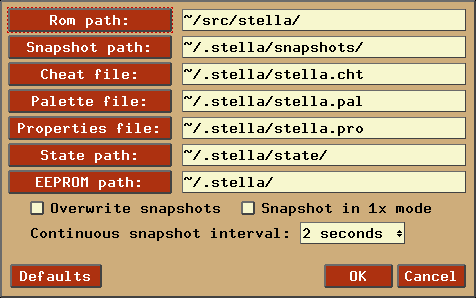
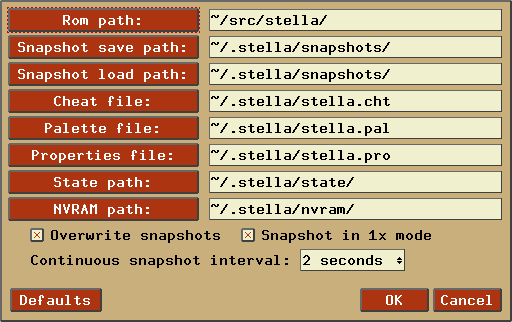
Updated webpage for 3.8 release.

diff --git a/docs/index.html b/docs/index.html
@@ -10,7 +10,7 @@
   <br><br>
   <center><h2><b>A multi-platform Atari 2600 VCS emulator</b></h2></center>
 
-  <center><h4><b>Release 3.7.5</b></h4></center>
+  <center><h4><b>Release 3.8</b></h4></center>
   <br><br>
 
   <center><h2><b>User's Guide</b></h2></center>
@@ -54,7 +54,7 @@
 
   <br><br><br>
 
-  <center><b>February 1999 - December 2012</b></center>
+  <center><b>February 1999 - February 2013</b></center>
     <center><b>The Stella Team</b></center>
   <center><b><a href="http://stella.sourceforge.net">Stella Homepage</a></b></center>
 
@@ -271,7 +271,8 @@
       <a href="http://www.richard.hutchinson.dsl.pipex.com/new_page_5.htm">
       AtariVox</a> device connected to your PC using a USB adaptor</li>
     <li>Supports EEPROM emulation for <a href="http://www.richard.hutchinson.dsl.pipex.com/new_page_5.htm">
-      AtariVox</a> and <a href="http://www.vectrex.biz/MemCard.htm">SaveKey</a> controllers</li>
+      AtariVox</a> and <a href="http://www.vectrex.biz/MemCard.htm">SaveKey</a> controllers,
+      as well as FLASH support in various cartridge schemes</li>
     <li>Supports all known bankswitching schemes (let us know if there's one we missed)</li>
     <li>Supports DPC+ bankswitching scheme from the <a href="http://harmony.atariage.com">Harmony Cart</a>,
       including <a href="http://thumbulator.blogspot.ca">partial emulation of the ARM processor</a></li>
@@ -1995,14 +1996,7 @@
 
     <tr>
       <td><pre>-freq &lt;number&gt;</pre></td>
-      <td>Set sound sample output frequency (0 - 48000).
-        Default is 31400.  Do not change unless you experience sound
-        issues.</td>
-    </tr>
-
-    <tr>
-      <td><pre>-tiafreq &lt;number&gt;</pre></td>
-      <td>Set sound sample generation frequency (0 - 48000).
+      <td>Set sound sample output frequency (11025,22050,31400,44100,48000)
         Default is 31400.  Do not change unless you experience sound
         issues.</td>
     </tr>
@@ -2108,8 +2102,13 @@
     </tr>
 
     <tr>
-      <td><pre>-snapdir &lt;path&gt;</pre></td>
+      <td><pre>-snapsavedir &lt;path&gt;</pre></td>
       <td>The directory to save snapshot files to.</td>
+    </tr>
+
+    <tr>
+      <td><pre>-snaploaddir &lt;path&gt;</pre></td>
+      <td>The directory to load snapshot files from.</td>
     </tr>
 
     <tr>
@@ -2215,8 +2214,8 @@
     </tr>
 
     <tr>
-      <td><pre>-eepromdir &lt;dir&gt;</pre></td>
-      <td>Set the directory in which to access EEPROM files.</td>
+      <td><pre>-nvramdir &lt;dir&gt;</pre></td>
+      <td>Set the directory in which to access non-volatile (flash/EEPROM) files.</td>
     </tr>
 
     <tr>
@@ -2494,9 +2493,7 @@
           <tr><th>Item</th><th>Brief description</th><th>For more information,<br>see <a href="#CommandLine">CommandLine</a></th></tr>
           <tr><td>Volume</td><td>self-explanatory</td><td>-volume</td></tr>
           <tr><td>Sample size (*)</td><td>set size of audio buffers</td><td>-fragsize</td></tr>
-          <tr><td>Output freq (*)</td><td>change sound output frequency (advanced)</td><td>-freq</td></tr>
-          <tr><td>TIA freq</td><td>change TIA output frequency (advanced)</td><td>-tiafreq</td></tr>
-          <tr><td>Clip volume</td><td>Eliminate popping in sound generation (advanced)</td><td>-clipvol</td></tr>
+          <tr><td>Frequency (*)</td><td>change sound output frequency</td><td>-freq</td></tr>
           <tr><td>Enable sound</td><td>self-explanatory</td><td>-sound</td></tr>
         </table>
       </td>
@@ -2561,12 +2558,13 @@
         <table border="1" cellpadding="4">
           <tr><th>Item</th><th>Brief description</th><th>For more information,<br>see <a href="#CommandLine">CommandLine</a></th></tr>
           <tr><td>Rom path</td><td>specifies location of ROM files</td><td>-romdir</td></tr>
-          <tr><td>Snapshot path</td><td>specifies where to load/save snapshots</td><td>-snapdir</td></tr>
+          <tr><td>Snapshot save path</td><td>specifies where to save snapshots</td><td>-snapsavedir</td></tr>
+          <tr><td>Snapshot load path</td><td>specifies where to load snapshots</td><td>-snaploaddir</td></tr>
           <tr><td>Cheat file</td><td>specifies location of cheatfile database</td><td>-cheatfile</td></tr>
           <tr><td>Palette file</td><td>specifies location of user palette</td><td>-palettefile</td></tr>
           <tr><td>Properties file </td><td>specifies location of external stella.pro database</td><td>-propsfile</td></tr>
           <tr><td>State path</td><td>specifies location of state files</td><td>-statedir</td></tr>
-          <tr><td>EEPROM path</td><td>specifies location of EEPROM files</td><td>-eepromdir</td></tr>
+          <tr><td>NVRAM path</td><td>specifies location of NVRAM (flash/EEPROM) files</td><td>-nvramdir</td></tr>
           <tr><td>Overwrite snapshots</td><td>whether to overwrite old snapshots</td><td>-sssingle</td></tr>
           <tr><td>Snapshot in 1x mode</td><td>save snapshot in 1x mode, without filtering</td><td>-ss1x</td></tr>
           <tr><td>Continuous snapshot interval</td><td>interval (in seconds) between snapshot</td><td>-ssinterval</td></tr>
@@ -2864,7 +2862,7 @@
   writing to a real EEPROM many times will eventually wear it out.</p>
 
   <p>The location of the EEPROM files are configurable through the
-  '<i>-eepromdir</i>' commandline argument and within the application itself
+  '<i>-nvramdir</i>' commandline argument and within the application itself
   (see <b>Advanced Configuration - <a href="#ConfigPaths">Config Paths</a></b>).
   If the path for these files hasn't been set, the default location will depend on the
   version of Stella, as follows:</p>
@@ -2872,21 +2870,21 @@
   <p><table cellpadding="5" border="1">
     <tr>
       <td><b>Linux/Unix</b></td>
-      <td><i>~/.stella/atarivox_eeprom.dat<br>
-        ~/.stella/savekey_eeprom.dat</i></td>
+      <td><i>~/.stella/nvram/atarivox_eeprom.dat<br>
+        ~/.stella/nvram/savekey_eeprom.dat</i></td>
     </tr>
     <tr>
       <td><b>Macintosh</b></td>
-      <td><i>~/Library/Application Support/Stella/atarivox_eeprom.dat<br>
-        ~/Library/Application Support/Stella/savekey_eeprom.dat</i></td>
+      <td><i>~/Library/Application Support/Stella/nvram/atarivox_eeprom.dat<br>
+        ~/Library/Application Support/Stella/nvram/savekey_eeprom.dat</i></td>
     </tr>
     <tr>
       <td><b>Windows</b></td>
-      <td><i>%APPDATA%\Stella\atarivox_eeprom.dat<br>
-        %APPDATA%\Stella\savekey_eeprom.dat</i>&nbsp;&nbsp;&nbsp;
+      <td><i>%APPDATA%\Stella\nvram\atarivox_eeprom.dat<br>
+        %APPDATA%\Stella\nvram\savekey_eeprom.dat</i>&nbsp;&nbsp;&nbsp;
         <b>OR</b><br>
-        <i>_BASEDIR_\atarivox_eeprom.dat<br>
-          _BASEDIR_\savekey_eeprom.dat<br></i>
+        <i>_BASEDIR_\nvram\atarivox_eeprom.dat<br>
+          _BASEDIR_\nvram\savekey_eeprom.dat<br></i>
           (if a file named 'basedir.txt' exists in the application
           directory containing the full pathname for _BASEDIR_)
       </td>

diff --git a/downloads.php b/downloads.php
@@ -15,57 +15,57 @@
 <table BORDER=0 CELLPADDING=6 WIDTH="100%">
 
 	<tr>
-		<td><b>Latest&nbsp;Release (v/ 3.7.5)</b></td>
+		<td><b>Latest&nbsp;Release (v/ 3.8)</b></td>
 		<td>&nbsp;</td>
 	</tr>
 
 	<tr>
-		<td BGCOLOR="#CCCCCC"><a href="http://prdownloads.sourceforge.net/stella/Stella-3.7.5-win32.exe?download">Stella-3.7.5-win32.exe</a></td>
-		<td BGCOLOR="#FFCC99">Binary installer (exe) for 32-bit Windows XP/Vista/7</td>
+		<td BGCOLOR="#CCCCCC"><a href="http://prdownloads.sourceforge.net/stella/Stella-3.8-win32.exe?download">Stella-3.8-win32.exe</a></td>
+		<td BGCOLOR="#FFCC99">Binary installer (exe) for 32-bit Windows XP/Vista/7/8</td>
 	</tr>
 
 	<tr>
-		<td BGCOLOR="#CCCCCC"><a href="http://prdownloads.sourceforge.net/stella/Stella-3.7.5-x64.exe?download">Stella-3.7.5-x64.exe</a></td>
-		<td BGCOLOR="#FFCC99">Binary installer (exe) for 64-bit Windows XP/Vista/7</td>
+		<td BGCOLOR="#CCCCCC"><a href="http://prdownloads.sourceforge.net/stella/Stella-3.8-x64.exe?download">Stella-3.8-x64.exe</a></td>
+		<td BGCOLOR="#FFCC99">Binary installer (exe) for 64-bit Windows XP/Vista/7/8</td>
 	</tr>
 
 	<tr>
-		<td BGCOLOR="#CCCCCC"><a href="http://prdownloads.sourceforge.net/stella/Stella-3.7.5-windows.zip?download">Stella-3.7.5-windows.zip</a></td>
-		<td BGCOLOR="#FFCC99">Binary ZIP (32-bit and 64-bit) for Windows XP/Vista/7</td>
+		<td BGCOLOR="#CCCCCC"><a href="http://prdownloads.sourceforge.net/stella/Stella-3.8-windows.zip?download">Stella-3.8-windows.zip</a></td>
+		<td BGCOLOR="#FFCC99">Binary ZIP (32-bit and 64-bit) for Windows XP/Vista/7/8</td>
 	</tr>
 
 	<tr>
-		<td BGCOLOR="#CCCCCC"><a href="http://prdownloads.sourceforge.net/stella/Stella-3.7.5-macosx.dmg?download">Stella-3.7.5-macosx.dmg</a></td>
+		<td BGCOLOR="#CCCCCC"><a href="http://prdownloads.sourceforge.net/stella/Stella-3.8-macosx.dmg?download">Stella-3.8-macosx.dmg</a></td>
 		<td BGCOLOR="#FFCC99">Binary DMG for MacOS X (32-bit Universal Binary, version 10.4 and higher)</td>
 	</tr>
 
 	<tr>
-		<td BGCOLOR="#CCCCCC"><a href="http://prdownloads.sourceforge.net/stella/Stella-3.7.5_intel-macosx.dmg?download">Stella-3.7.5_intel-macosx.dmg</a></td>
+		<td BGCOLOR="#CCCCCC"><a href="http://prdownloads.sourceforge.net/stella/Stella-3.8_intel-macosx.dmg?download">Stella-3.8_intel-macosx.dmg</a></td>
 		<td BGCOLOR="#FFCC99">Binary DMG for MacOS X (32/64-bit, Intel CPU/10.6+ only)</td>
 	</tr>
 
 	<tr>
-		<td BGCOLOR="#CCCCCC"><a href="http://prdownloads.sourceforge.net/stella/stella_3.7.5-1_i386.deb?download">stella_3.7.5-1_i386.deb</a></td>
+		<td BGCOLOR="#CCCCCC"><a href="http://prdownloads.sourceforge.net/stella/stella_3.8-1_i386.deb?download">stella_3.8-1_i386.deb</a></td>
 		<td BGCOLOR="#FFCC99">Binary 32-bit DEB for Ubuntu 12.10 (Quantal Quetzal)</td>
 	</tr>
 
 	<tr>
-		<td BGCOLOR="#CCCCCC"><a href="http://prdownloads.sourceforge.net/stella/stella_3.7.5-1_amd64.deb?download">stella_3.7.5-1_amd64.deb</a></td>
+		<td BGCOLOR="#CCCCCC"><a href="http://prdownloads.sourceforge.net/stella/stella_3.8-1_amd64.deb?download">stella_3.8-1_amd64.deb</a></td>
 		<td BGCOLOR="#FFCC99">Binary 64-bit DEB for Ubuntu 12.10 (Quantal Quetzal)</td>
 	</tr>
 
 	<tr>
-		<td BGCOLOR="#CCCCCC"><a href="http://prdownloads.sourceforge.net/stella/stella-3.7.5-2.i386.rpm?download">stella-3.7.5-2.i386.rpm</a></td>
+		<td BGCOLOR="#CCCCCC"><a href="http://prdownloads.sourceforge.net/stella/stella-3.8-2.i386.rpm?download">stella-3.8-2.i386.rpm</a></td>
 		<td BGCOLOR="#FFCC99">Binary 32-bit RPM for Linux (tested in Fedora)</td>
 	</tr>
 
 	<tr>
-		<td BGCOLOR="#CCCCCC"><a href="http://prdownloads.sourceforge.net/stella/stella-3.7.5-2.x86_64.rpm?download">stella-3.7.5-2.x86_64.rpm</a></td>
+		<td BGCOLOR="#CCCCCC"><a href="http://prdownloads.sourceforge.net/stella/stella-3.8-2.x86_64.rpm?download">stella-3.8-2.x86_64.rpm</a></td>
 		<td BGCOLOR="#FFCC99">Binary 64-bit RPM for Linux (tested in Fedora)</td>
 	</tr>
 
 	<tr>
-		<td BGCOLOR="#CCCCCC"><a href="http://prdownloads.sourceforge.net/stella/stella-3.7.5-src.tar.gz?download">stella-3.7.5-src.tar.gz</a></td>
+		<td BGCOLOR="#CCCCCC"><a href="http://prdownloads.sourceforge.net/stella/stella-3.8-src.tar.gz?download">stella-3.8-src.tar.gz</a></td>
 		<td BGCOLOR="#FFCC99">Source code tarball for all systems</td>
 	</tr>
 

diff --git a/stellanews.php b/stellanews.php
@@ -12,6 +12,84 @@
 			<div class="content">
 
 <!---------------------------------------------------------------->
+<H4>February 21, 2013</H4>
+Stella release 3.8 for Linux, MacOS X and Windows is now available.
+<ul>
+<li>Huge changes to the sound system:
+  <ul>
+    <li>The sound code now uses 16-bit signed samples instead of 8-bit
+        unsigned samples, making it more compatible with a wider variety of
+        systems.</li>
+    <li>Improved sound output for several ROMs, including "Space Rocks"
+        (the 'heartbeat' sound can now be clearly heard).</li>
+    <li>The 'volume clipping' option has been removed, since in 16-bit
+        mode it's no longer needed.</li>
+    <li>The 'Tia freq' option has been removed.</li>
+    <li>Selecting more common sample rates (other than 31400) now works
+        much better, but there are still a few ROMS (like Quadrun) where
+        31400Hz still works best.</li>
+  </ul>
+</li>
+
+<li>Many changes to handling ZIP archives:
+  <ul>
+    <li>Files in multiple levels are now recognized.  This fixes issues
+        in Windows where such files couldn't be loaded at all, and in all
+        systems where ROMs with the same name (but in different
+        directories) weren't being recognized.</li>
+    <li>ZIP contents are now handled more intelligently.  Archives
+        containing only one ROM are automatically loaded, whereas those
+        with multiple files are treated as directories.</li>
+    <li>Opening an archive from the commandline now works as in the UI,
+        where opening a multi-ROM archive will pop up the UI and show the
+        archive contents (as a directory).</li>
+    <li>The ZIP code behind the scenes is now much faster by making use
+        of caching (the old code was actually from 1998!).</li>
+    <li>This new 'archive' infrastructure may eventually lead to 7-Zip
+        support, as well as 'virtual' formats (such as showing the list
+        of files for 2in1/4in1/8in1/etc within the UI).</li>
+  </ul>
+</li>
+
+<li>Improved bankswitch autodetection for FA2 ROMs; 29K and 32K versions
+    (meant for Harmony cart) are now recognized.</li>
+
+<li>Improved bankswitch autodetection for X07 ROMs (although there's only
+    two known ROMs in existence, so the detection probably isn't robust).</li>
+
+<li>Tweaked bankswitch autodetection for the 0840, F8 and FE schemes;
+    several homebrews that didn't run before now work correctly.</li>
+
+<li>Fixed regression in RIOT INTIM reads; at least one known ROM
+    (Mr. Roboto Berzerk hack) wasn't working properly.</li>
+
+<li>Fixed bug in the debugger with RIOT INTIM/TIMINT display; reads
+    were being done multiple times, changing the state of the
+    registers and resulting in incorrect emulation.</li>
+
+<li>Worked around bug in debugger disassembly of zero-page RAM; for now,
+    the resolving of address vs. data sections is turned off in such a
+    case.  This fixes lockups in 'Meltdown' ROM.</li>
+
+<li>Added support for different directories for saving/loading PNG
+    files.  These are set with the 'snapsavedir' and 'snaploaddir'
+    commandline arguments (which replace the old 'snapdir'), and are
+    also available within the UI.</li>
+
+<li>Changed 'eepromdir' commandline argument to 'nvramdir', and changed
+    the default location to BASEDIR/nvram (where BASEDIR depends on your
+    OS).  This means all your EEPROM and Flash files will have to be
+    manually moved to this new directory.  This affects developers, and
+    those people playing ROMs with AtariVox/SaveKey support as well as
+    the newer 'Star Castle' FA2 ROMs.</li>
+
+<li>Updated included PNG and ZLIB libraries to latest stable version.</li>
+
+</ul>
+
+-Have fun!
+
+
 <H4>December 22, 2012</H4>
 Stella release 3.7.5 for Linux, MacOS X and Windows is now available.
 <ul>
@@ -24,8 +102,6 @@ Stella release 3.7.5 for Linux, MacOS X and Windows is now available.
     as the build number, platform architecture, TV effects in use, etc.</li>
 
 </ul>
-
--Have fun!
 
 
 <H4>October 31, 2012</H4>

diff --git a/footer.php b/footer.php
@@ -2,4 +2,4 @@
 <a href="http://www.bradfordmott.com">Bradford W. Mott</a>, 
 <a href="http://minbar.org">Stephen Anthony</a> and 
 <a href="theteam.php">The Stella Team</a>
-<br />	Site Updated February 15, 2013</p>
+<br />	Site Updated February 21, 2013</p>
